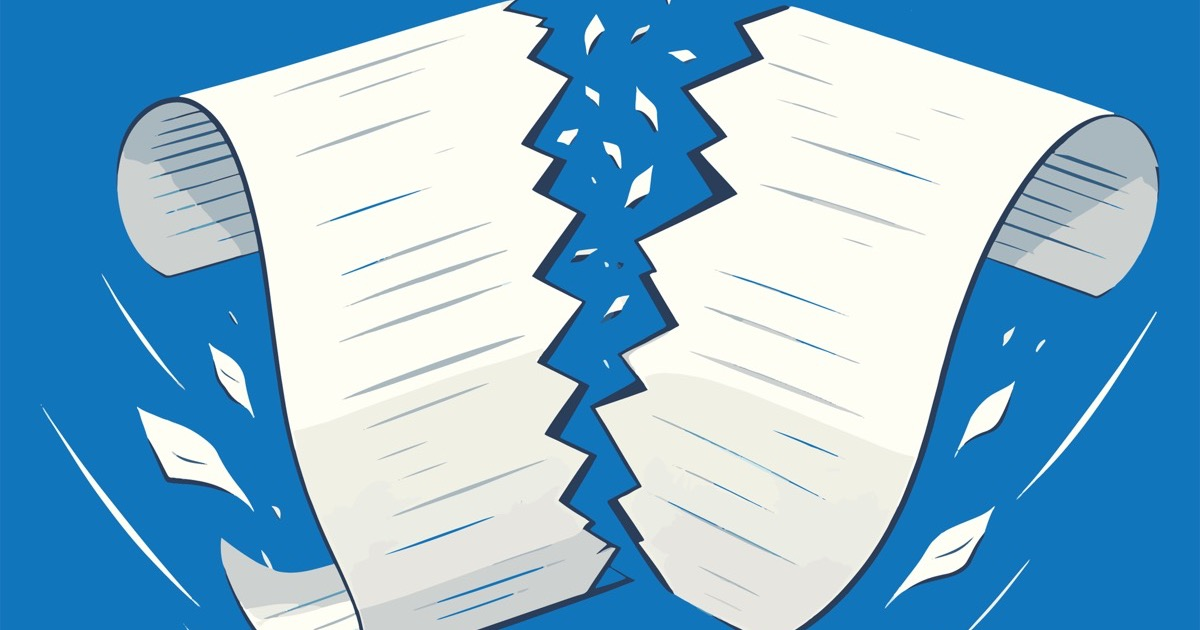
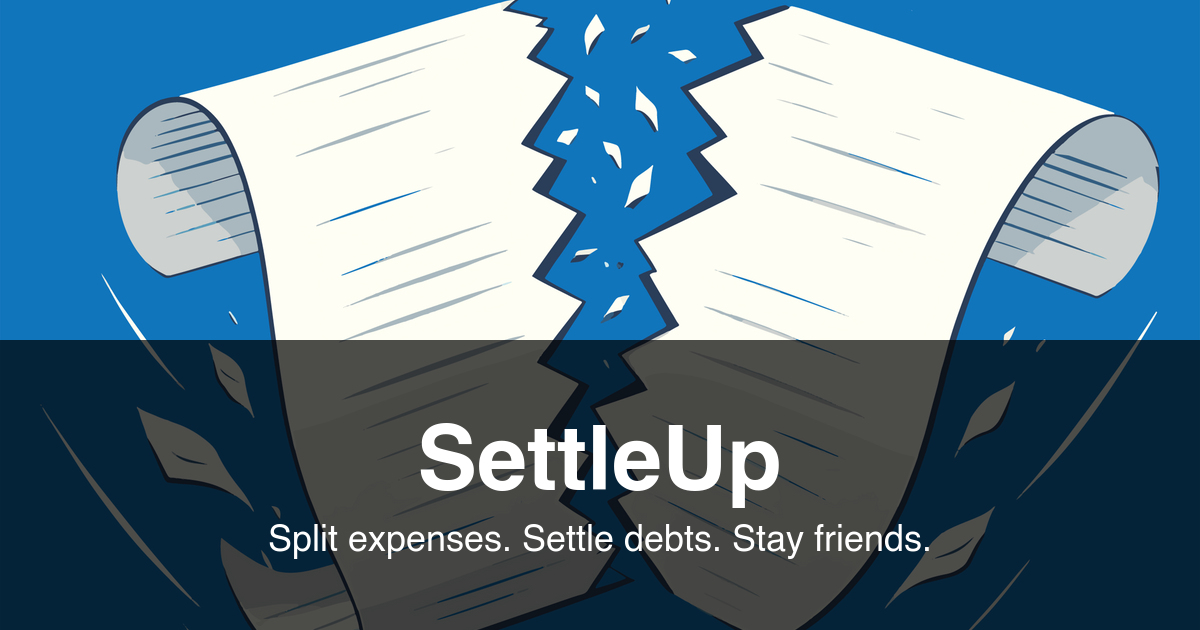
Improve OG metadata and image
Add text overlay to og-image.jpg with app name and tagline.
Expand title to 53 chars and description to 164 chars for better
social media previews.

diff --git a/index.html b/index.html
@@ -4,10 +4,12 @@
 <head>
     <meta charset="UTF-8">
     <meta name="viewport" content="width=device-width, initial-scale=1.0">
-    <title>Split · Expense Tracker</title>
-    <meta property="og:title" content="Split · Expense Tracker">
+    <title>SettleUp – Split Expenses & Settle Debts with Friends</title>
+    <meta name="description"
+        content="Split bills and expenses fairly between any number of people. Track who paid what, calculate minimum transfers, and settle up easily. Share wallets via link or QR code.">
+    <meta property="og:title" content="SettleUp – Split Expenses & Settle Debts with Friends">
     <meta property="og:description"
-        content="Split expenses fairly between any number of people. Track who paid what and settle up easily.">
+        content="Split bills and expenses fairly between any number of people. Track who paid what, calculate minimum transfers, and settle up easily. Share wallets via link or QR code.">
     <meta property="og:image" content="https://settleup.kopernici.cz/og-image.jpg">
     <meta property="og:image:width" content="1200">
     <meta property="og:image:height" content="630">
